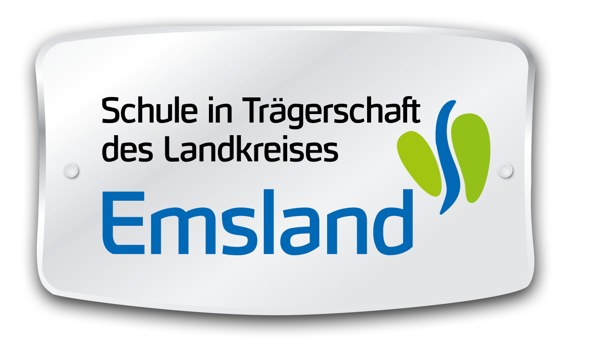
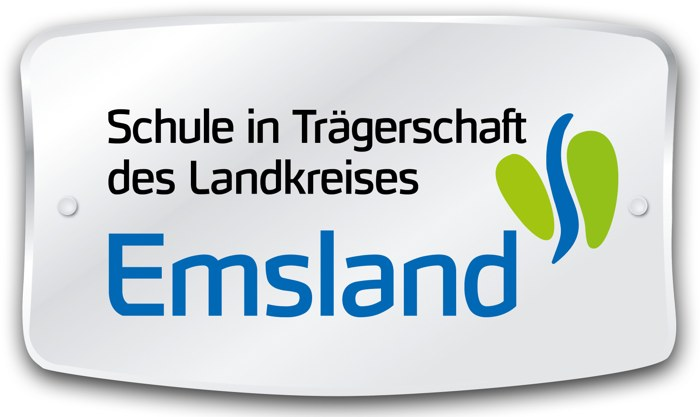
Kopflogos wie in der Vorlage zugeschnitten (noten-v23)
Claude-Session: https://claude.ai/code/session_015BHycAJLbTnYDQuSHvmnvH

diff --git a/sw.js b/sw.js
@@ -1,5 +1,5 @@
 // Offline-Dienst: legt die App-Dateien beim ersten Besuch ab und liefert sie danach ohne Netz.
-const VERSION = 'noten-v22';
+const VERSION = 'noten-v23';
 const DATEIEN = [
   './', 'index.html', 'style.css', 'manifest.webmanifest',
   'icons/icon.svg', 'icons/icon-192.png', 'icons/icon-512.png', 'icons/kopf-bbs-links.png', 'icons/kopf-bbs-rechts.jpg',

diff --git a/js/ansichten/einstellungen.js b/js/ansichten/einstellungen.js
@@ -10,7 +10,7 @@ import { bewertungBereich } from './bewertung.js';
 import { fachZeile } from '../modell.js';
 
 /** Stand der App (bei jeder Auslieferung mit sw.js VERSION erhöhen). */
-export const APP_STAND = 'noten-v22';
+export const APP_STAND = 'noten-v23';
 
 export function zeigeEinstellungen() {
   const wurzel = h('section', { class: 'seite' });
